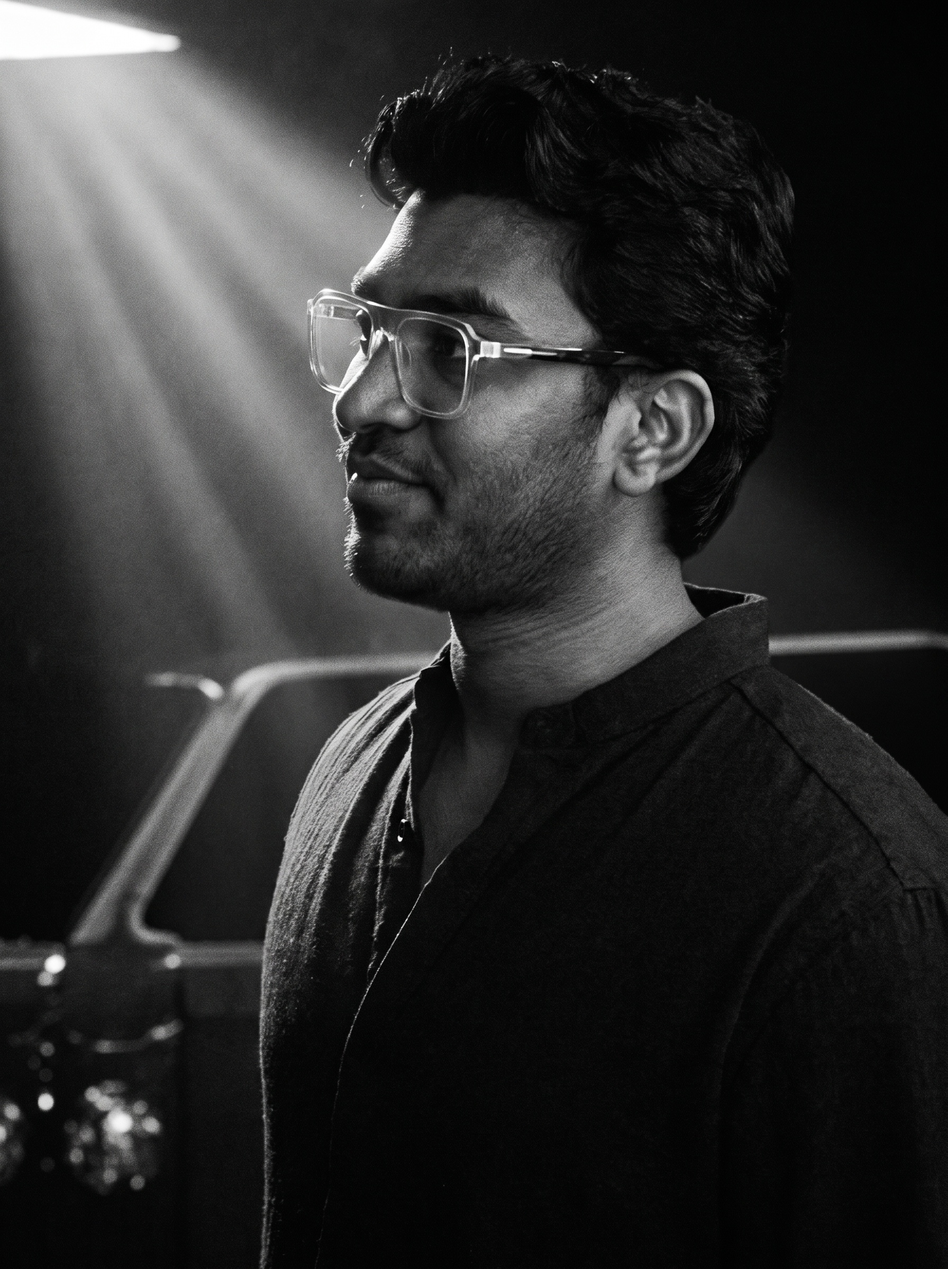
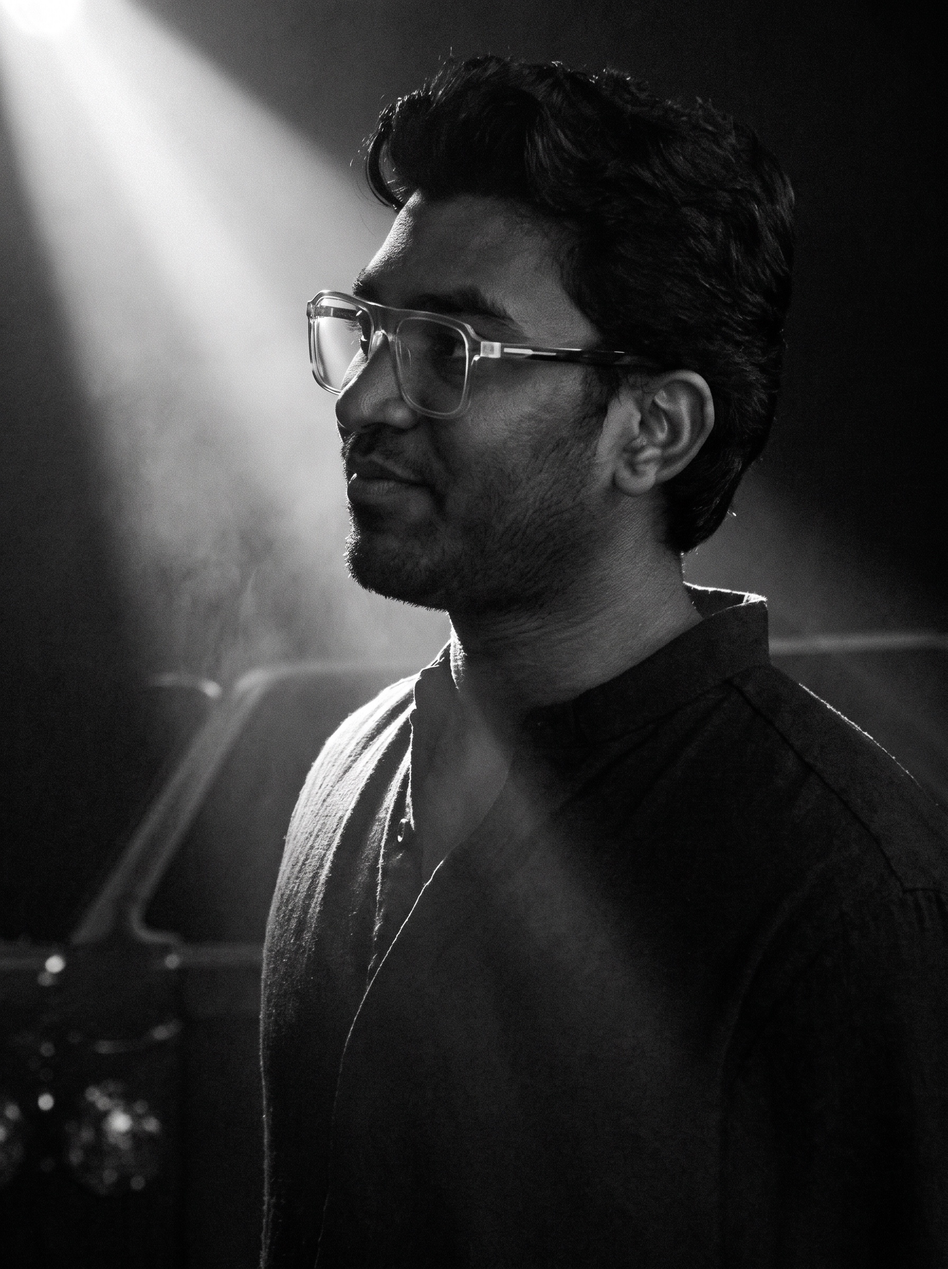
feat(share): og card v20 — his pick of the beam, and impact joins the metrics
The portrait swaps to the first relight (job e840c668 — tighter spotlight,
higher source, halo of haze around the head), and IMPACT DRIVEN becomes the
fourth outlined pill between AI Systems and San Francisco.

diff --git a/og-image.html b/og-image.html
@@ -78,10 +78,10 @@
     }
 
     /* ── three outlined pills, mono letterspaced ── */
-    .pills { position: absolute; left: 98px; top: 548px; display: flex; gap: 18px; z-index: 4; }
+    .pills { position: absolute; left: 98px; top: 548px; display: flex; gap: 14px; z-index: 4; }
     .pill {
       display: inline-flex; align-items: center;
-      padding: 13px 26px; border: 1px solid rgba(239,243,248,.26); border-radius: 999px;
+      padding: 13px 22px; border: 1px solid rgba(239,243,248,.26); border-radius: 999px;
       background: rgba(6,8,9,.4);
       font-family: 'JetBrains Mono', monospace; font-weight: 500;
       font-size: 13px; letter-spacing: .26em; text-transform: uppercase;
@@ -115,6 +115,7 @@
   <div class="pills">
     <span class="pill">0 → 1</span>
     <span class="pill">AI Systems</span>
+    <span class="pill">Impact Driven</span>
     <span class="pill">San Francisco</span>
   </div>
 
